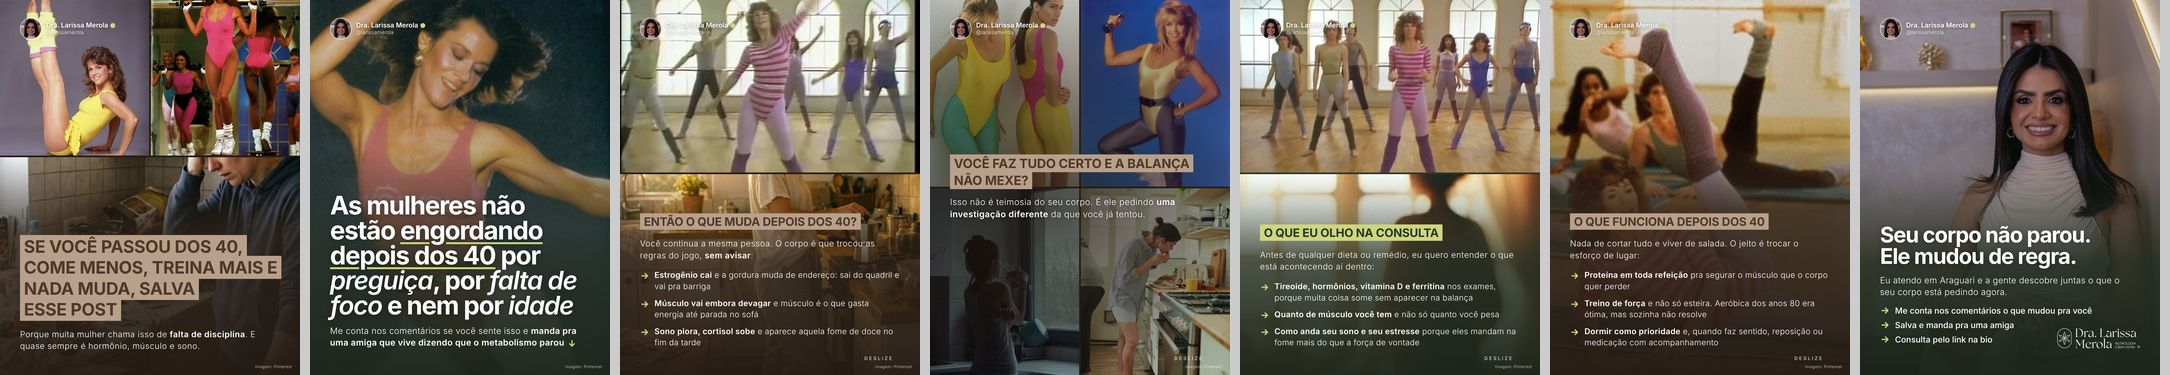
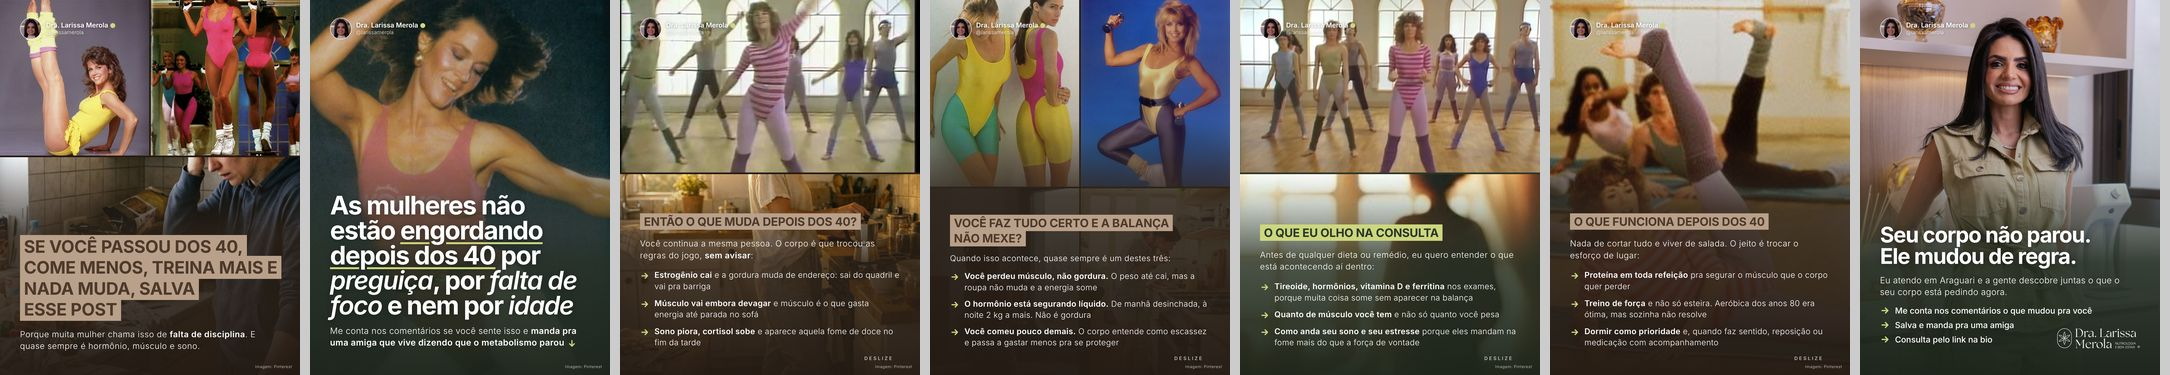
Mosaico com itens: slide 4 dos carrosséis tipo 2 ganha três pontos concretos
Claude-Session: https://claude.ai/code/session_01WN8xztW6W2hHDkg5MavPGS

Changed region(s): [[0.4323, 0.0, 0.5866, 1.0], [0.8336, 0.0, 1.0, 0.704]]

diff --git a/larissa-merola/capa/v2.css b/larissa-merola/capa/v2.css
@@ -228,3 +228,13 @@ p b, li b { font-weight: 600; }
 .mosaico .texto b { font-weight: 600; }
 .mosaico .deslize { color: rgba(255,255,255,.8); bottom: 50px; }
 .tipo2 .credito { position: absolute; right: 28px; bottom: 22px; font-size: 14px; letter-spacing: 0.06em; color: rgba(255,255,255,.65); text-align: right; max-width: 700px; }
+
+/* mosaico com itens: texto desce pra base, véu mais forte embaixo, lista com setas como no corpo */
+.mosaico.com-itens .veu { background: linear-gradient(180deg, rgba(var(--v),.10) 0%, rgba(var(--v),.30) 32%, rgba(var(--v),.88) 52%, rgba(var(--vf),.98) 100%); }
+.mosaico.com-itens .bloco { top: auto; bottom: 96px; transform: none; gap: 24px; }
+.mosaico.com-itens .rotulo-caixa { font-size: 42px; }
+.mosaico.com-itens .texto { font-size: 29px; text-shadow: none; }
+.mosaico ul { list-style: none; margin: 0; padding: 0; display: flex; flex-direction: column; gap: 18px; }
+.mosaico li { display: flex; gap: 18px; align-items: flex-start; font-size: 29px; line-height: 1.4; font-weight: 300; letter-spacing: 0.02em; }
+.mosaico li svg { flex: none; width: 34px; height: 34px; margin-top: 6px; stroke: var(--saude); fill: none; stroke-width: 3; stroke-linecap: round; stroke-linejoin: round; }
+.mosaico li b { font-weight: 600; }
